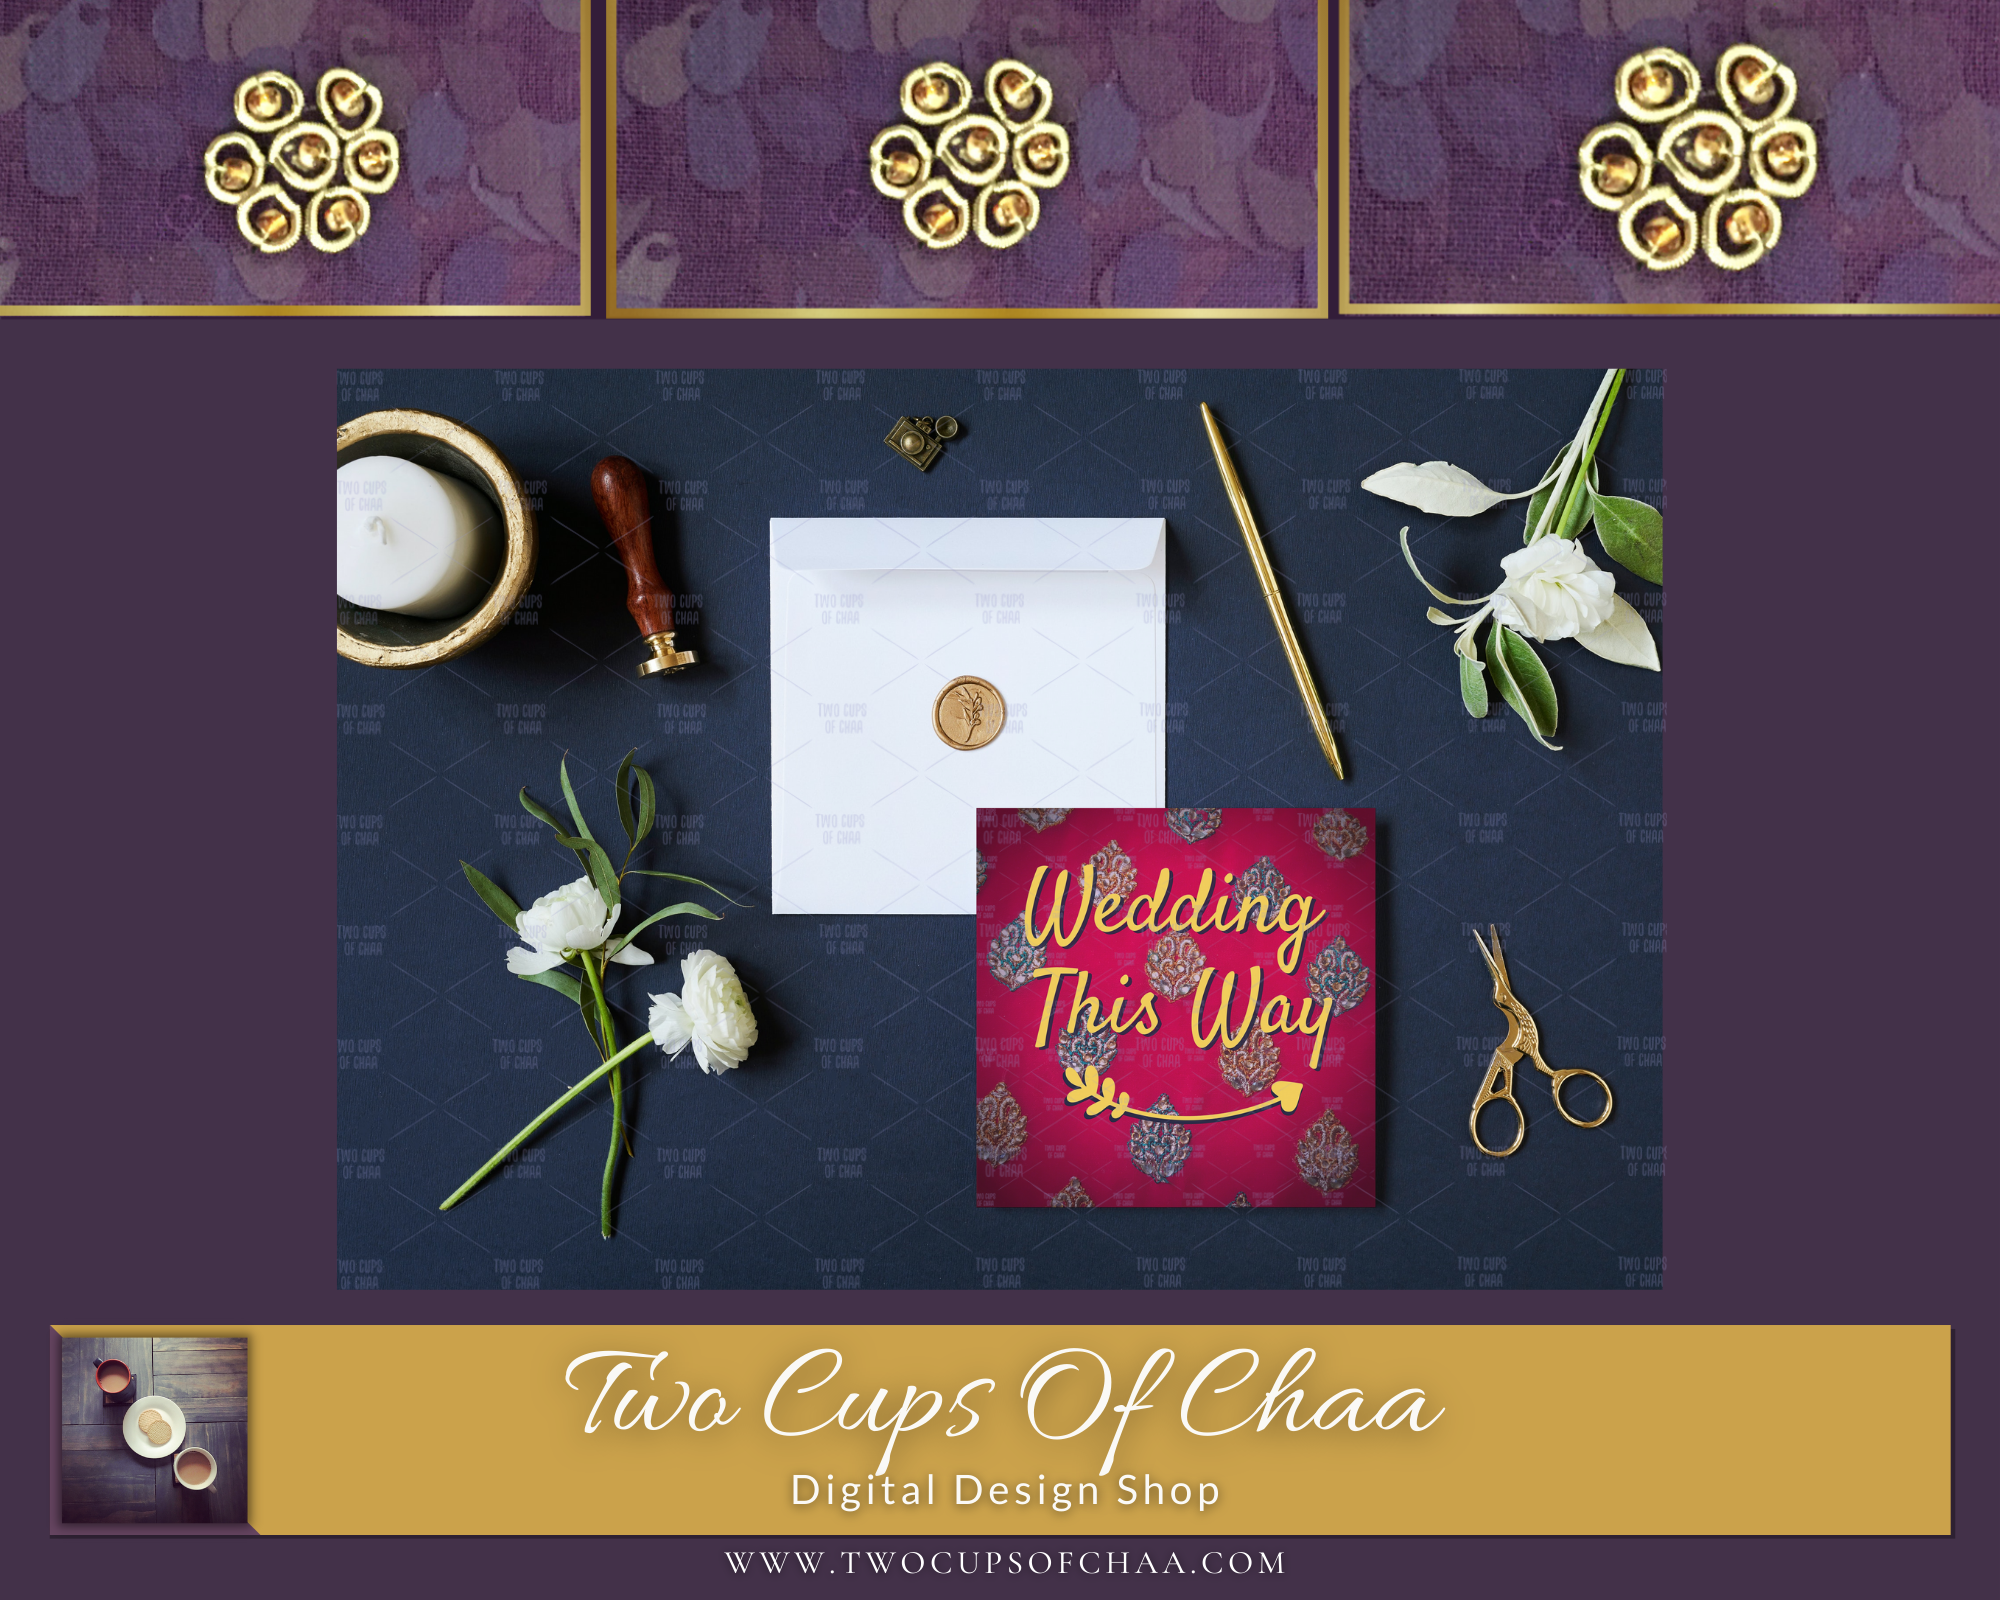
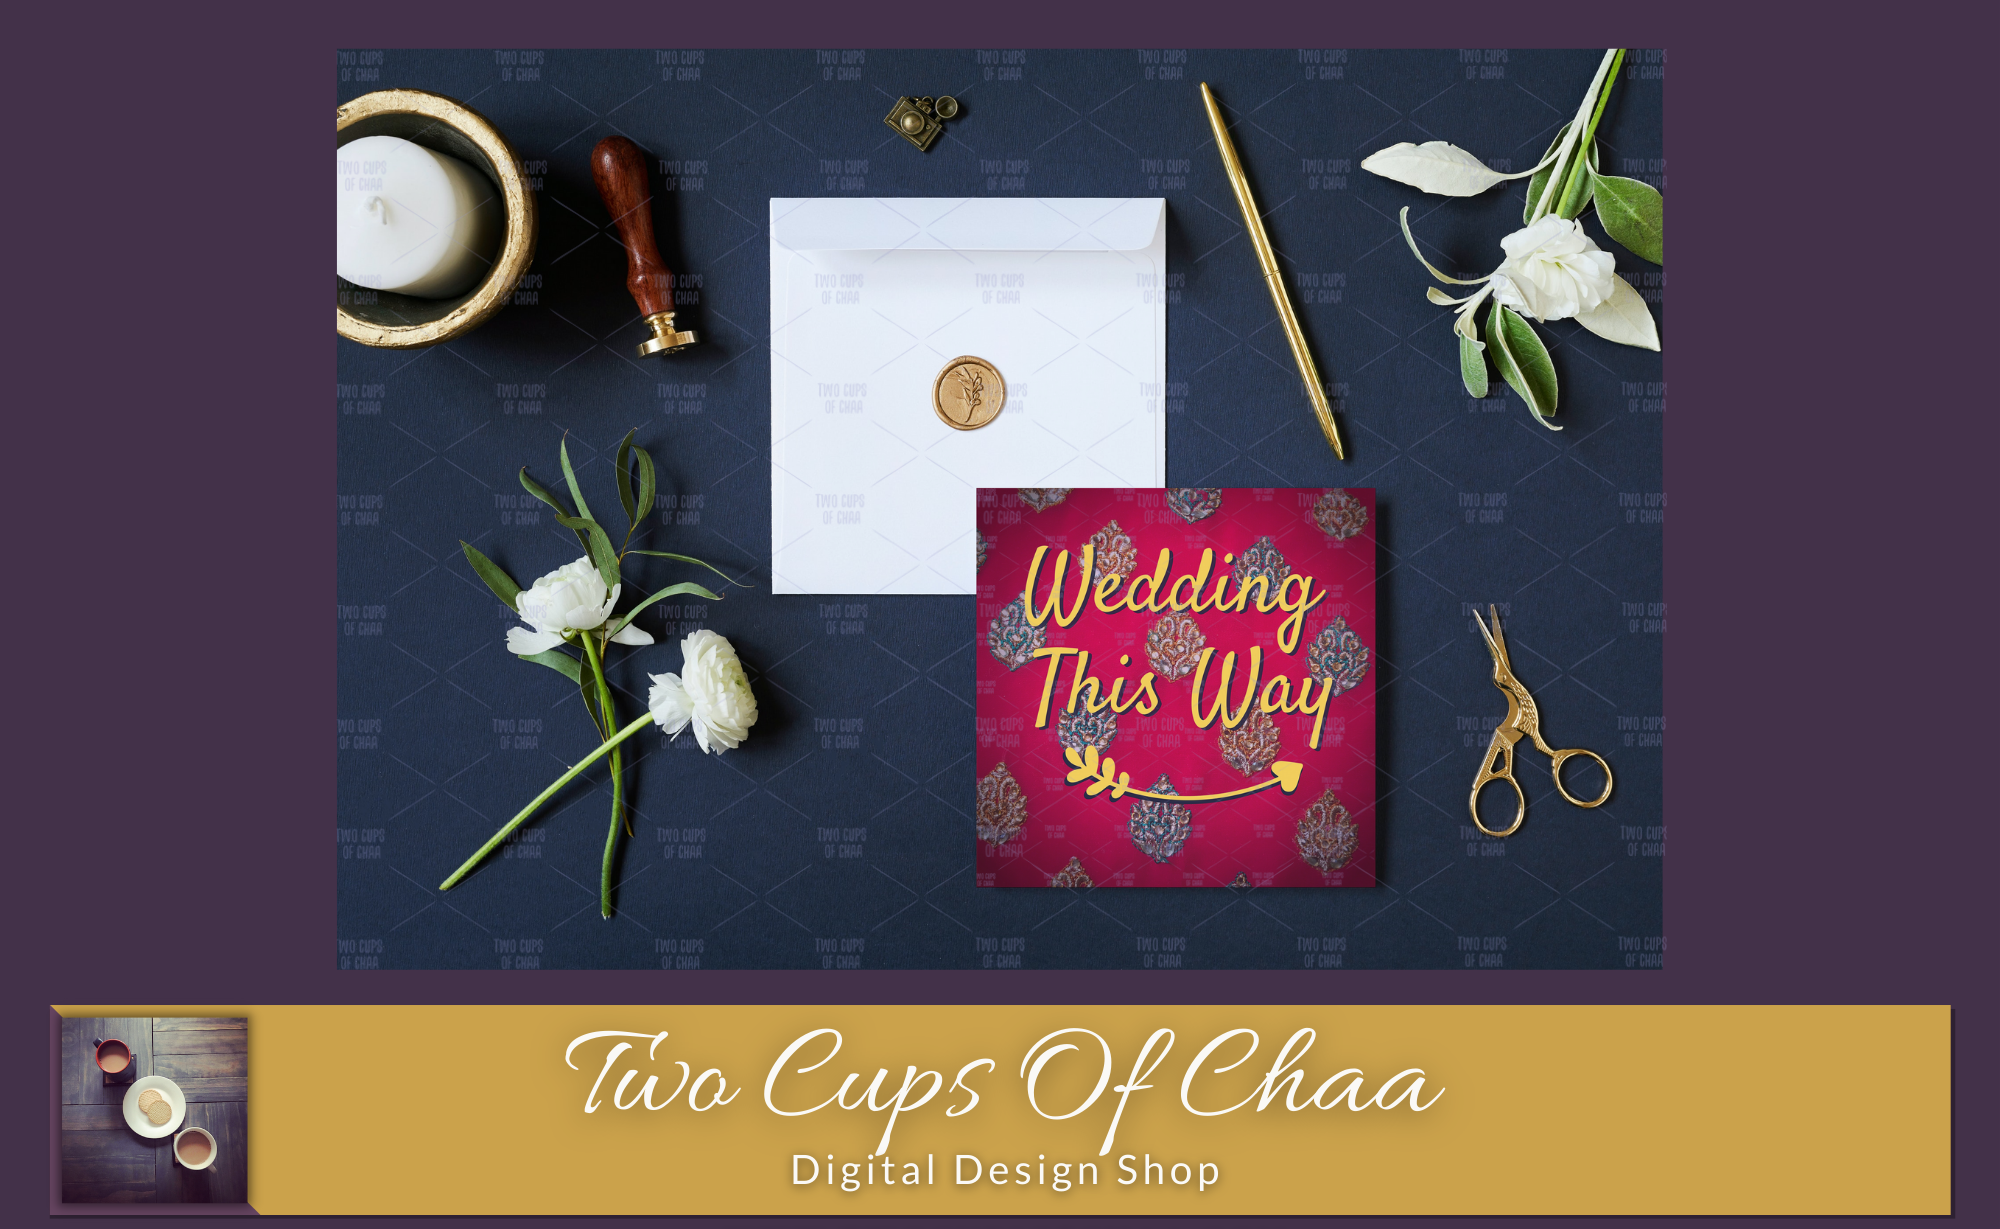
changes to the images - cropped to  look better

diff --git a/_posts/2022/2022-02-15-HouseDecor.md b/_posts/2022/2022-02-15-HouseDecor.md
@@ -1,12 +1,12 @@
 ---
 date: 2022-02-15
 layout: post
-title: Sangeet House Decor For Pre-Wedding Events
+title: Simple Sangeet House Decor For Pre-Wedding Events
 subtitle: Tips Tricks and Hacks 
 description: Decorating your home for wedding week Tips, Tricks, Hacks and Printables to help create the perfect setting for your event. 
 permalink: /tips/house-decor
-image: /images/portfolio/photo/decor/1.jpg
-optimized_image: /images/portfolio/photo/decor/banister.jpg
+image: /images/portfolio/photo/decor/banister.jpg
+optimized_image: /images/portfolio/photo/decor/1.jpg
 section_id: 28973991
 category: tips
 tags:

diff --git a/_posts/2021/2021-09-08-Invitations.md b/_posts/2021/2021-09-08-Invitations.md
@@ -5,8 +5,8 @@ title: What is a Digital Invitation?
 subtitle: A tutorial
 description: Invitaitons to meet all your needs
 permalink: /collections/invitations
-image: /images/portfolio/what.png
-optimized_image: /images/portfolio/what.png
+image: /images/portfolio/instructions/question.png
+optimized_image: /images/portfolio/instructions/question.png
 section_id: 28253630
 category: Tutorial
 tags:
